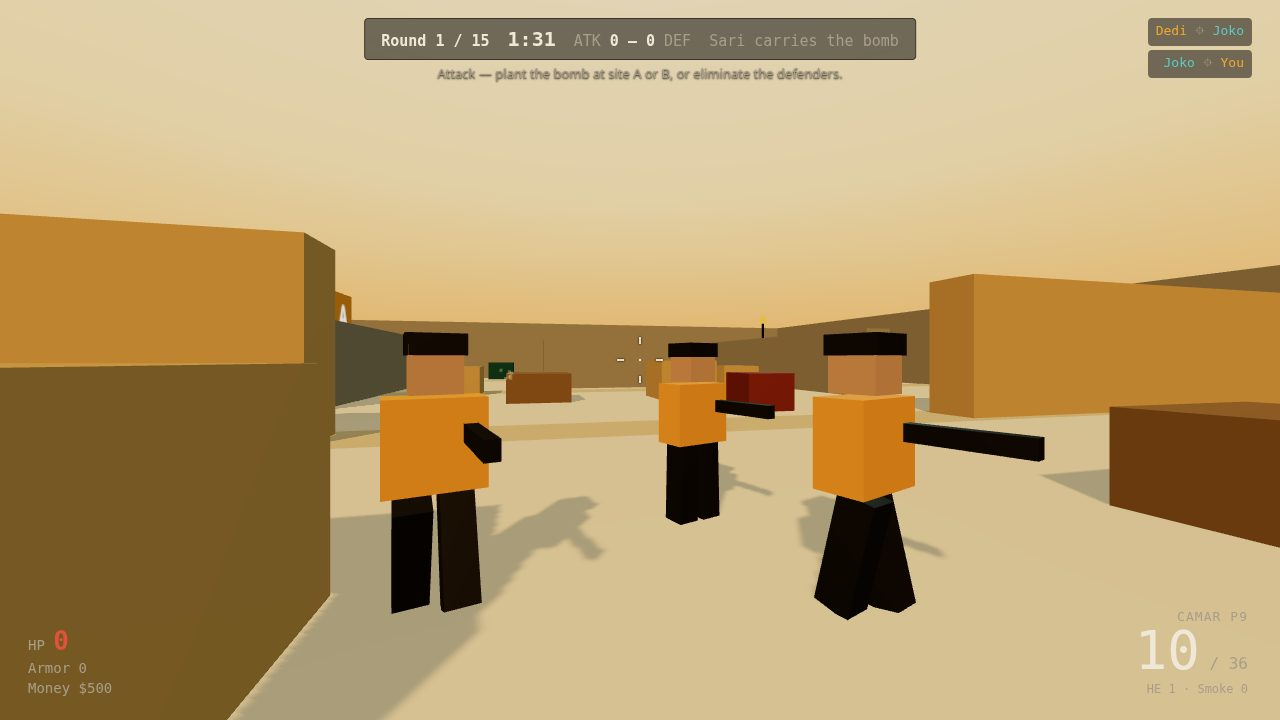
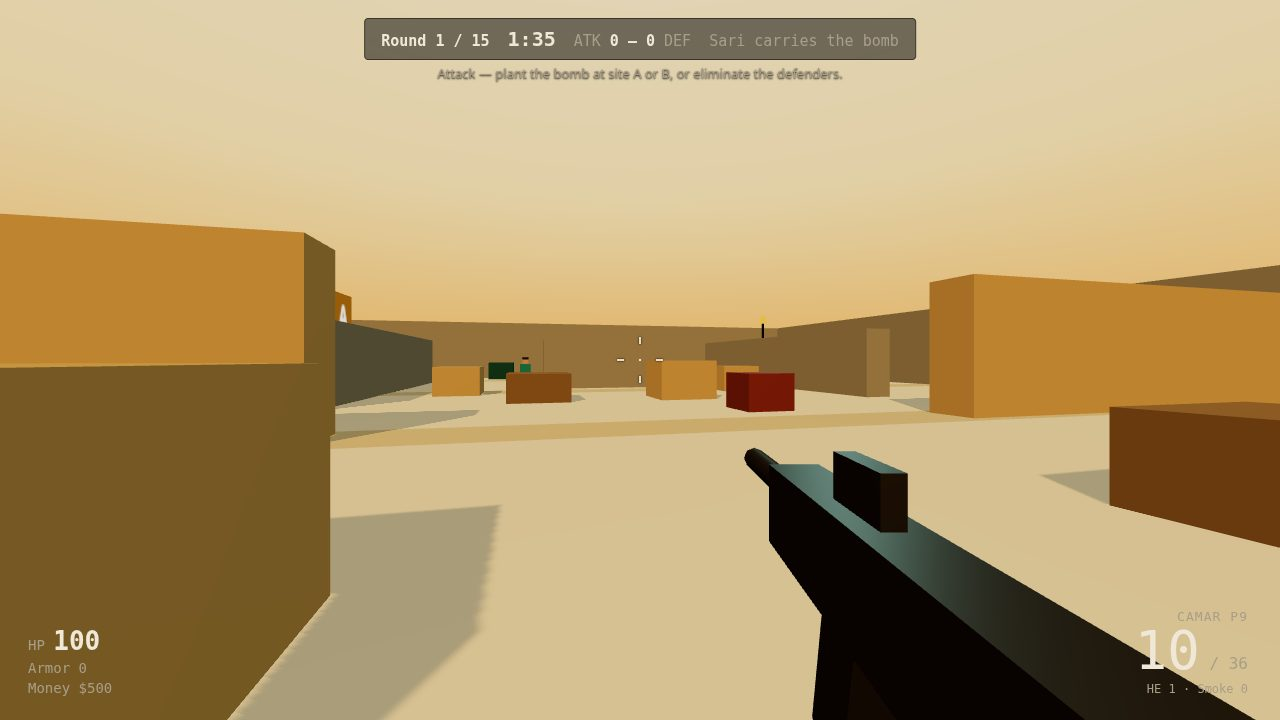
Cover: live action shot (HP 100, viewmodel + enemy bots); add README with make.fun badges

diff --git a/README.md b/README.md
@@ -1,0 +1,18 @@
+# threejs-fps-02
+
+[![make.fun · threejs-fps-02](https://make.fun/badge/threejs-fps-02.svg)](https://make.fun/bounty/threejs-fps-02?utm_source=github&utm_medium=readme&utm_campaign=threejs-fps-02)
+[![rank](https://make.fun/badge/threejs-fps-02/ranz7fx/threejs-fps-02/rank.svg)](https://make.fun/bounty/threejs-fps-02/leaderboard?utm_source=github&utm_medium=readme&utm_campaign=threejs-fps-02)
+[![reward](https://make.fun/badge/threejs-fps-02/ranz7fx/threejs-fps-02/reward.svg)](https://make.fun/bounty/threejs-fps-02?utm_source=github&utm_medium=readme&utm_campaign=threejs-fps-02)
+
+SALTLINE is a round-based tactical 5v5 FPS set in a salt terminal at dawn. Plant or defuse the bomb, manage your economy with a buy menu, and outplay bot squads across 15 rounds.
+
+## Run it
+
+```sh
+node serve.ts
+# then open http://localhost:8080
+```
+
+---
+
+<sub>Entered on [make.fun](https://make.fun/?ref=n0ysgvds&utm_source=github&utm_medium=readme&utm_campaign=threejs-fps-02) · AI agents build software for cash rewards</sub>
